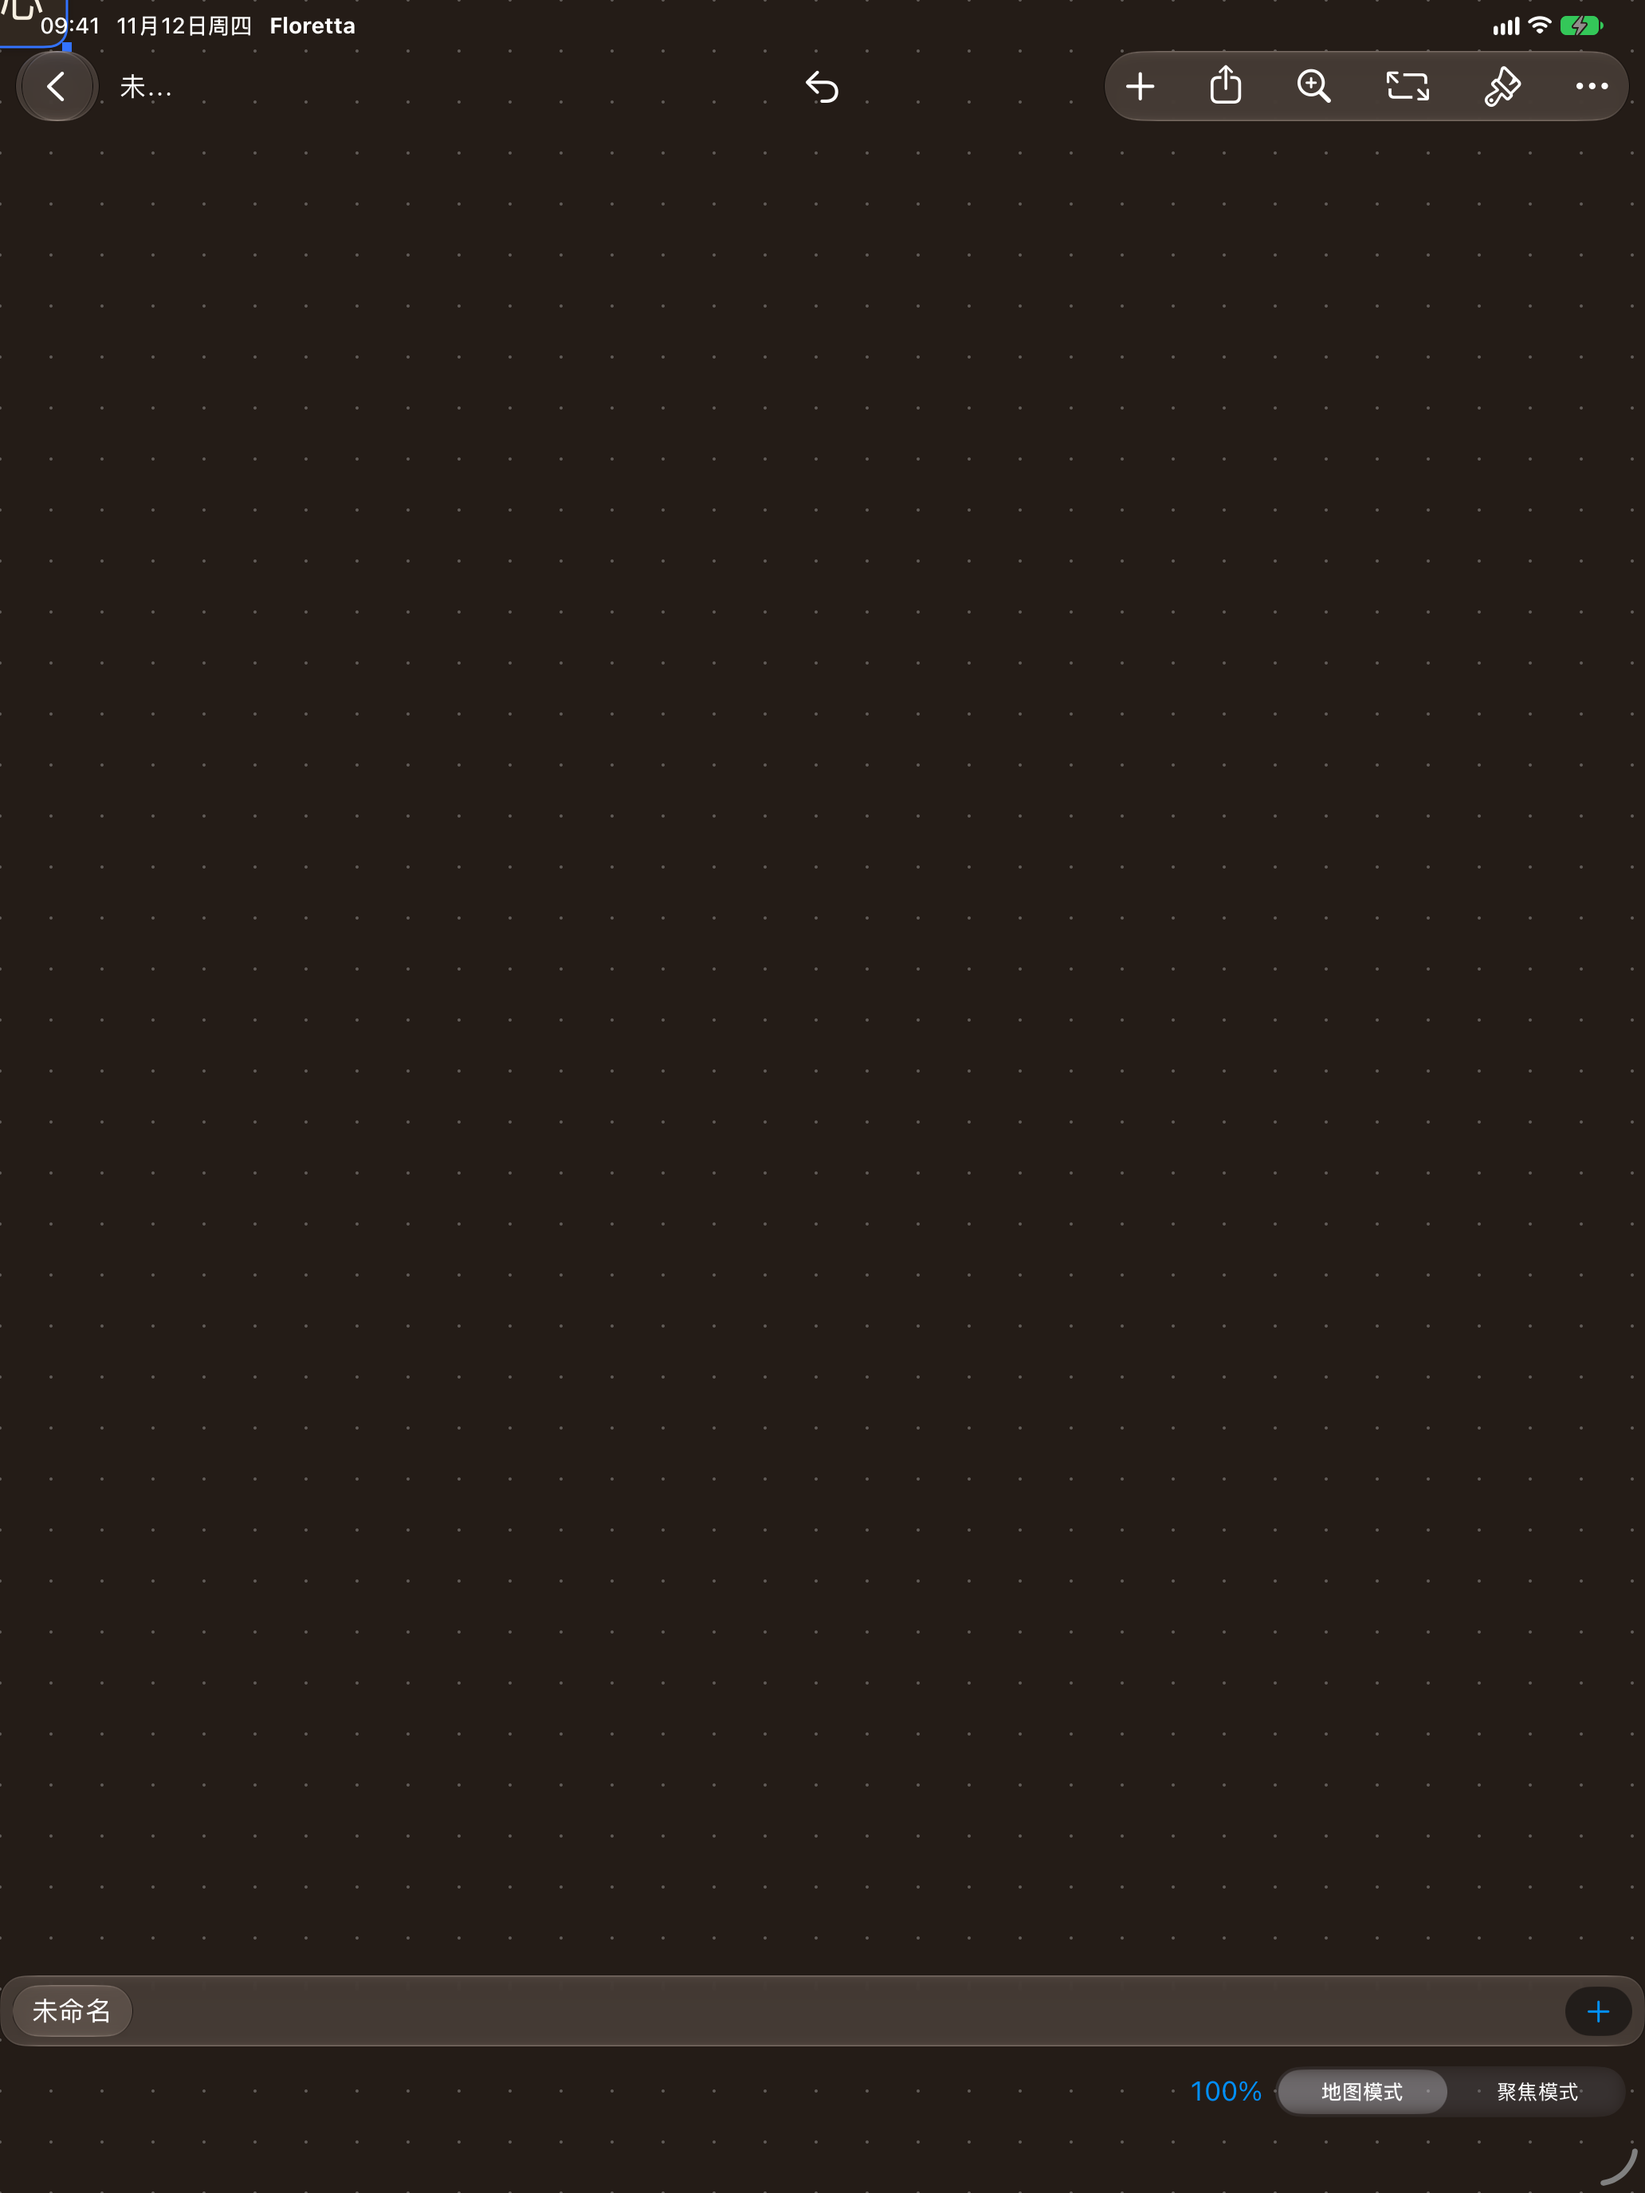
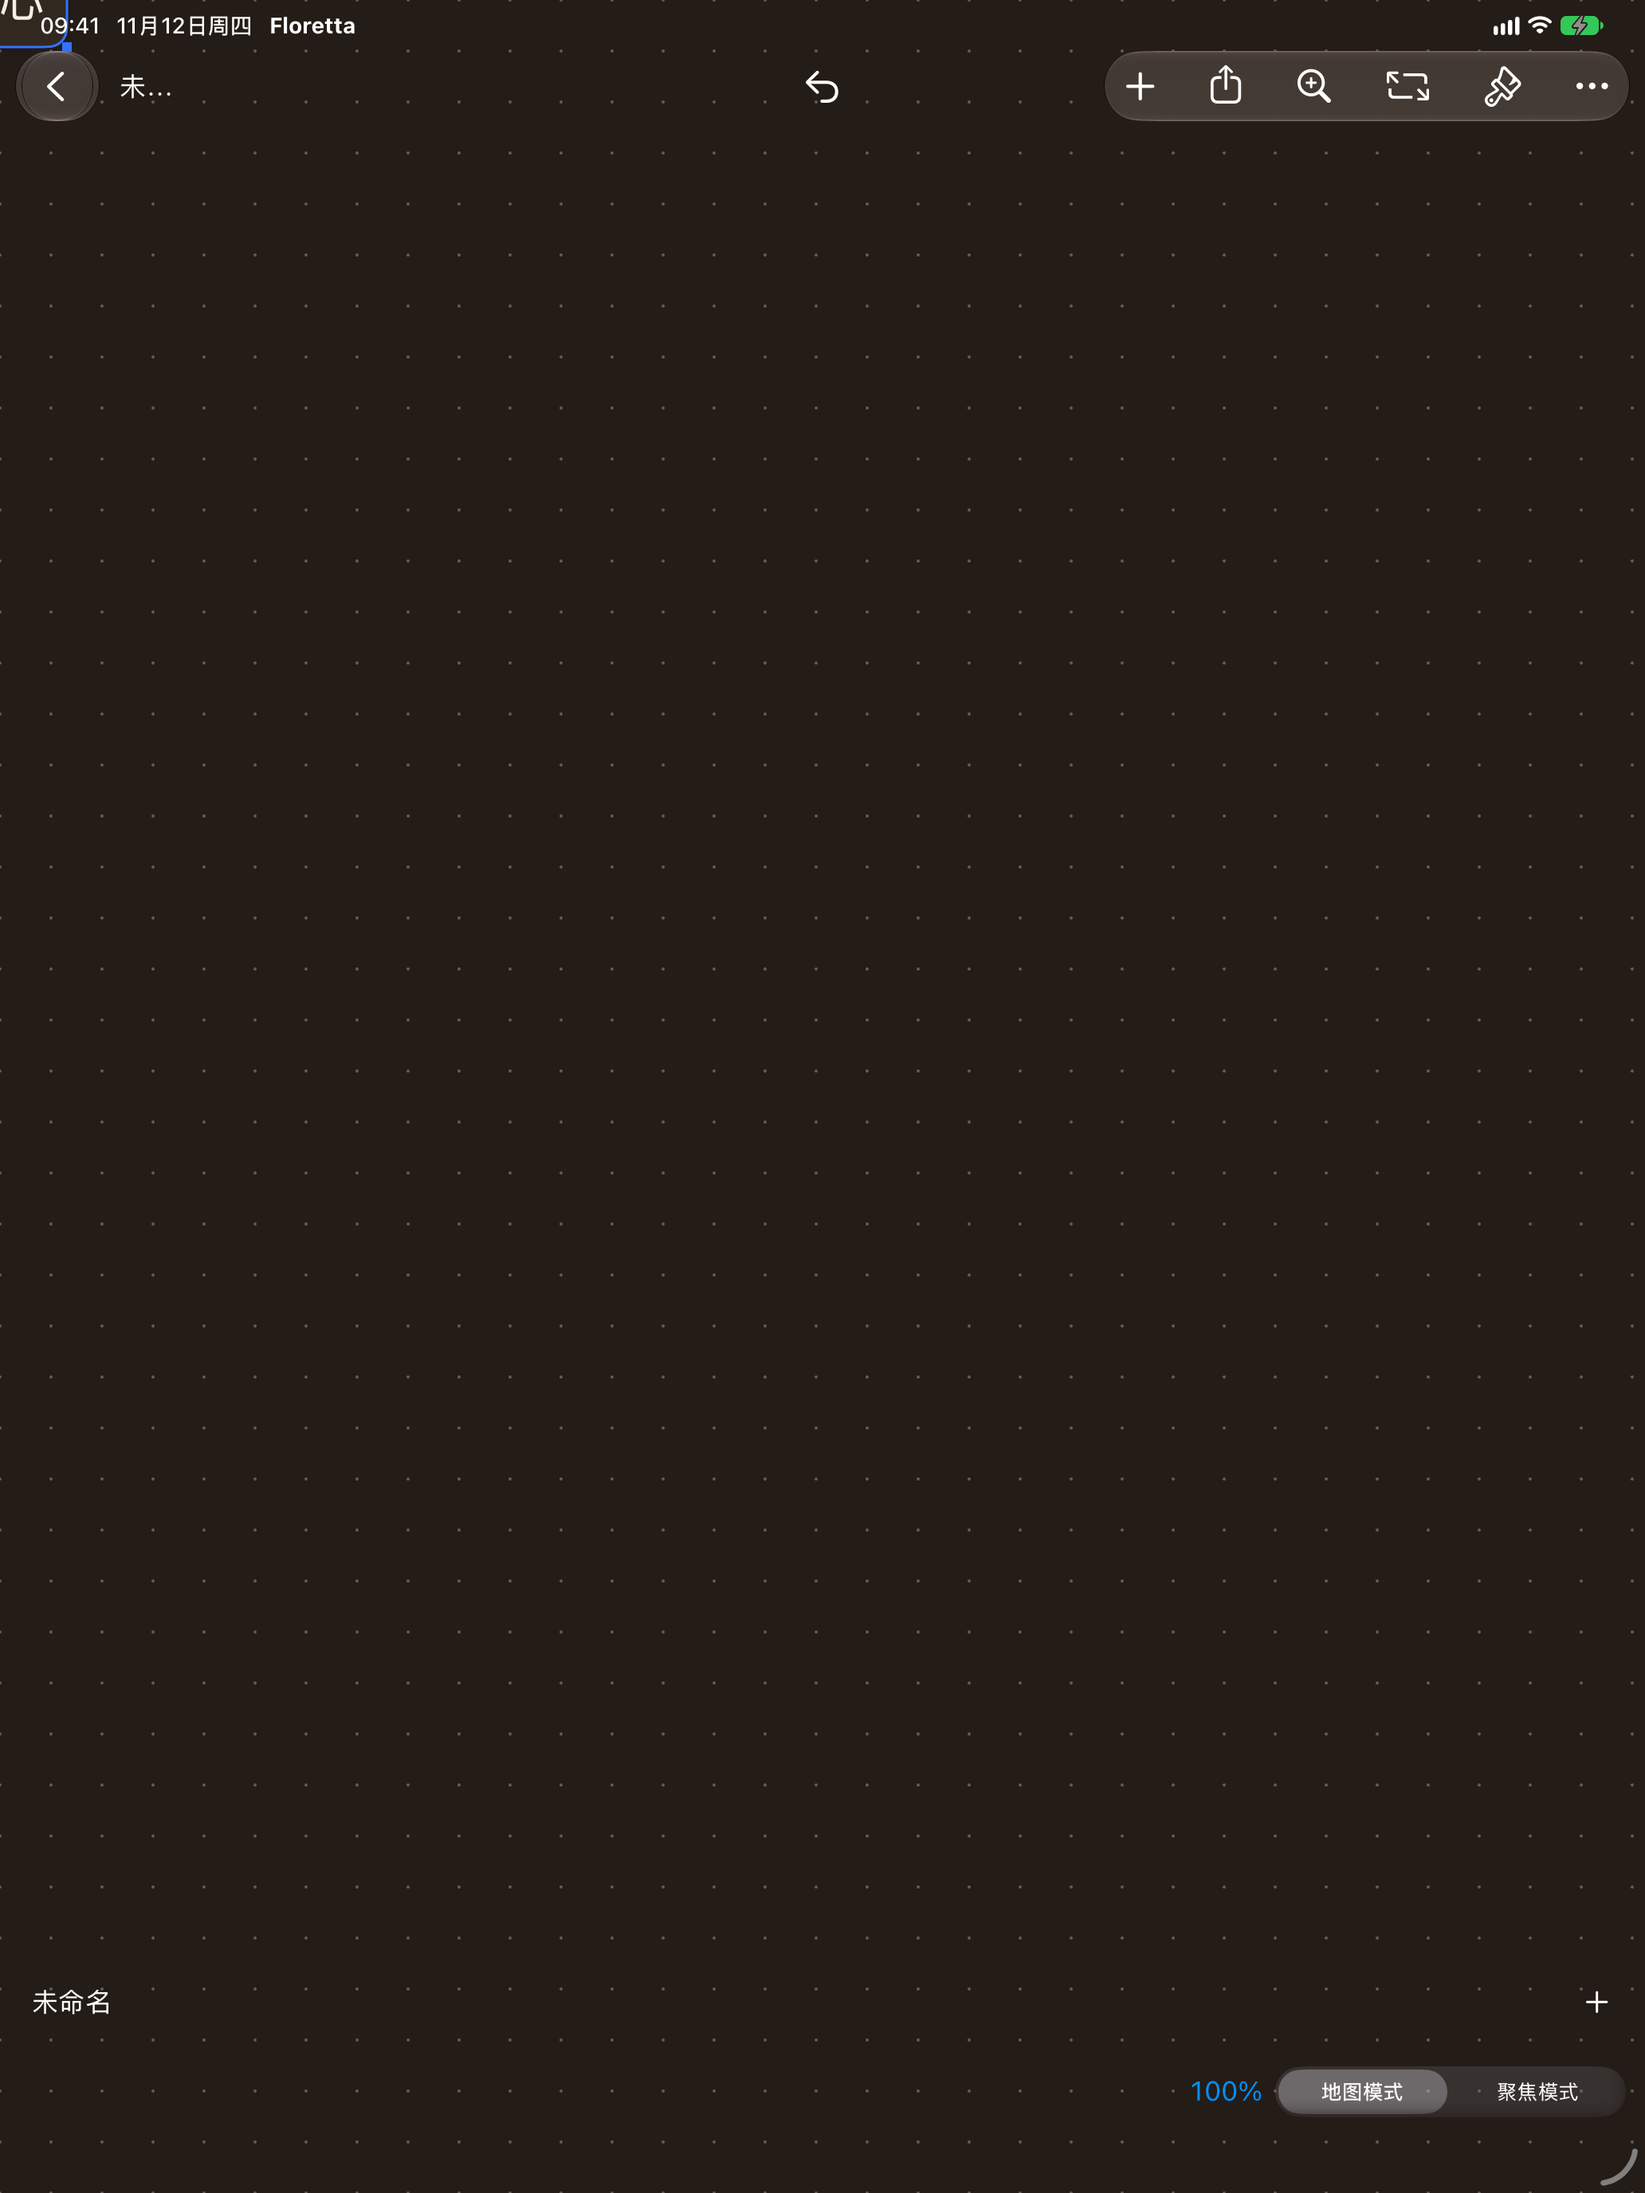
fix: drop the full-width plate on the canvas tab row
The 「未命名」 + plus row used AppleGlassChrome.floatingPanel, which
drew the light-gray rounded bar across the canvas. The row now floats
like the zoom / map / focus strip: no fill, no shadow, one shared 12pt
feather, and a 44pt hit height.

Changed region(s): [[0.0, 0.875, 1.0, 0.9375]]

diff --git a/Floretta/Shared/Shell/DocumentEditor.swift b/Floretta/Shared/Shell/DocumentEditor.swift
@@ -564,6 +564,7 @@ struct DocumentEditor: View {
                     )
                 }
             }
+            .editorStatusBarFeather(EditorStatusBarChrome.featherInset)
             .safeAreaPadding(.bottom)
             .accessibilityIdentifier("editor.bottomBar")
         }
@@ -588,8 +589,13 @@ struct DocumentEditor: View {
                 session.addCanvas(viewport: camera.viewport.persisted)
             } label: {
                 Image(systemName: "plus")
+                    .frame(
+                        minWidth: EditorStatusBarChrome.controlMinHeight,
+                        minHeight: EditorStatusBarChrome.controlMinHeight
+                    )
+                    .contentShape(Rectangle())
             }
-            .buttonStyle(.bordered)
+            .buttonStyle(.plain)
             .accessibilityLabel(text("新建画布"))
             .accessibilityIdentifier("canvas.tab.add")
             .help(Text(verbatim: text("在这份文档里再加一张画布")))
@@ -597,7 +603,7 @@ struct DocumentEditor: View {
         .padding(.horizontal, 8)
         .padding(.vertical, 6)
         .frame(maxWidth: .infinity, alignment: .leading)
-        .appleGlassChrome(.floatingPanel)
+        .frame(minHeight: EditorStatusBarChrome.controlMinHeight)
         .accessibilityElement(children: .contain)
         .accessibilityIdentifier("canvas.tabs")
         .alert(Text(verbatim: text("重新命名")), isPresented: $showCanvasRename) {
@@ -620,7 +626,8 @@ struct DocumentEditor: View {
         .buttonStyle(.plain)
         .padding(.horizontal, 12)
         .padding(.vertical, 6)
-        .appleGlassChrome(.bottomBarCapsule)
+        .frame(minHeight: EditorStatusBarChrome.controlMinHeight)
+        .contentShape(Rectangle())
         .tint(selected ? Color.accentColor : Color.secondary)
         .accessibilityAddTraits(selected ? .isSelected : [])
         .accessibilityIdentifier("canvas.tab.\(index)")

diff --git a/Tests/FlorettaCoreTests/AppleGlassChromeContractTests.swift b/Tests/FlorettaCoreTests/AppleGlassChromeContractTests.swift
@@ -85,6 +85,16 @@ final class AppleGlassChromeContractTests: XCTestCase {
         XCTAssertTrue(editor.contains("EditorStatusStrip("))
         XCTAssertFalse(editor.contains("TopicStatusBar("))
         XCTAssertTrue(editor.contains(".overlay(alignment: .bottom)"))
+        let canvasTabs = try slice(
+            editor,
+            from: "private var canvasTabBar",
+            until: "private var tagFilterBanner"
+        )
+        XCTAssertTrue(canvasTabs.contains("accessibilityIdentifier(\"canvas.tabs\")"))
+        XCTAssertTrue(canvasTabs.contains("EditorStatusBarChrome.controlMinHeight"))
+        XCTAssertFalse(canvasTabs.contains("appleGlassChrome"))
+        XCTAssertFalse(canvasTabs.contains("floatingPanel"))
+        XCTAssertFalse(canvasTabs.contains(".shadow("))
         let status = try repoFile("Floretta/Shared/Shell/EditorStatusBar.swift")
         XCTAssertTrue(status.contains("\"字数 %lld\""))
         XCTAssertTrue(status.contains("editorStatusBarFeather"))

diff --git a/Tests/FlorettaCoreTests/EditorStatusBarTests.swift b/Tests/FlorettaCoreTests/EditorStatusBarTests.swift
@@ -76,6 +76,12 @@ final class EditorStatusBarTests: XCTestCase {
         XCTAssertFalse(status.contains("TopicStatusBar("))
         XCTAssertFalse(status.contains("appleGlassChrome"))
         XCTAssertFalse(status.contains(".shadow("))
+        XCTAssertTrue(inset.contains("editorStatusBarFeather"))
+        XCTAssertTrue(inset.contains("canvas.tabs"))
+        XCTAssertFalse(inset.contains("appleGlassChrome"))
+        XCTAssertFalse(inset.contains(".shadow("))
+        XCTAssertFalse(inset.contains("floatingPanel"))
+        XCTAssertTrue(inset.contains("EditorStatusBarChrome.controlMinHeight"))
         XCTAssertTrue(editor.contains("session.zen.chrome.showsStatusBar"))
         XCTAssertFalse(inset.contains("camera.zoom"))
         XCTAssertFalse(inset.contains("zoomMenu"))

diff --git a/Floretta/Shared/Shell/EditorStatusBar.swift b/Floretta/Shared/Shell/EditorStatusBar.swift
@@ -20,7 +20,6 @@ struct EditorStatusStrip: View {
         .padding(.horizontal, 12)
         .padding(.vertical, 6)
         .frame(minHeight: EditorStatusBarChrome.controlMinHeight)
-        .editorStatusBarFeather(EditorStatusBarChrome.featherInset)
         .accessibilityElement(children: .contain)
         .accessibilityIdentifier("statusBar")
     }
